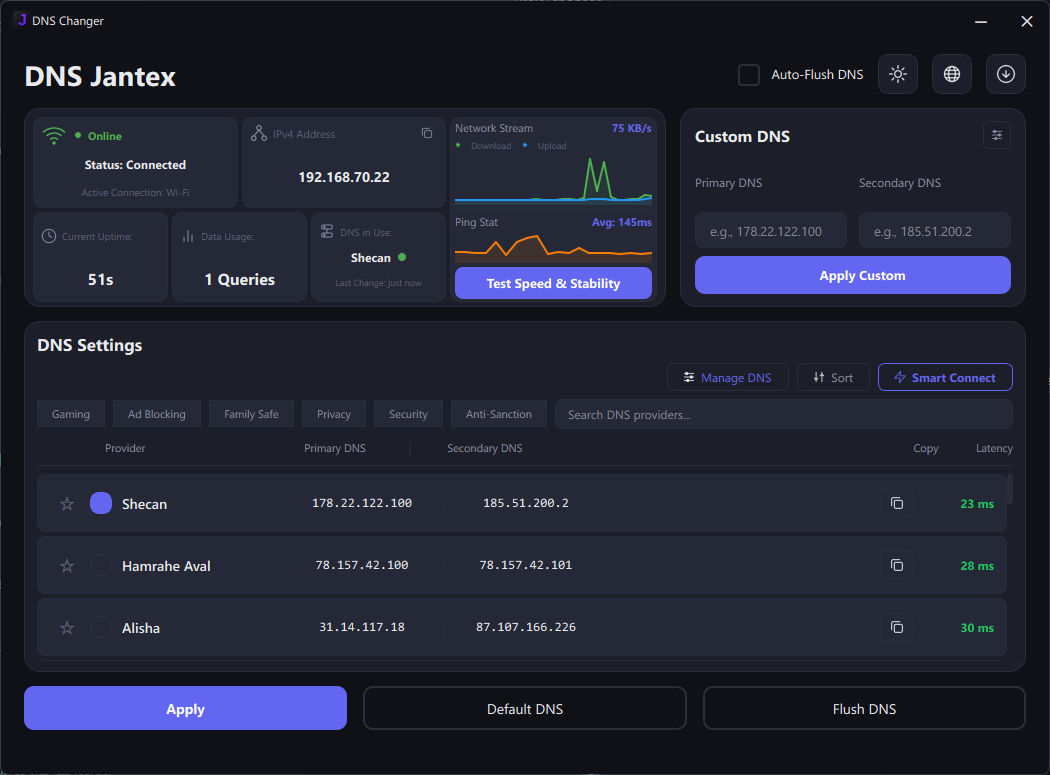
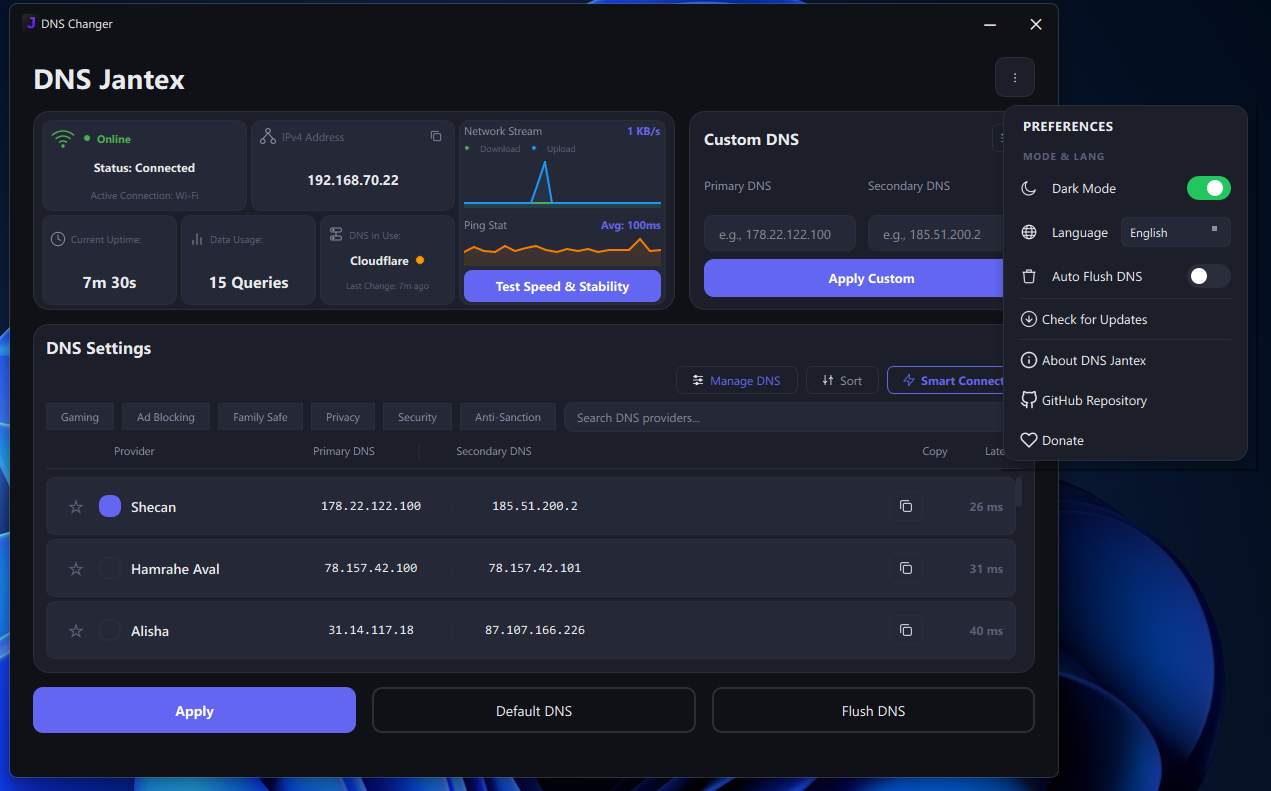
docs: replace old screenshot with new preferences menu screenshot

diff --git a/README.md b/README.md
@@ -39,13 +39,7 @@
 <p align="center">
   <img src="docs/screenshot.png" width="700">
   <br>
-  <em>Dark mode with latency testing</em>
-</p>
-
-<p align="center">
-  <img src="docs/new screenshot.PNG" width="700">
-  <br>
-  <em>Preferences menu with toggle switches and dropdown</em>
+  <em>Dark mode with preferences menu</em>
 </p>
 
 ## Download